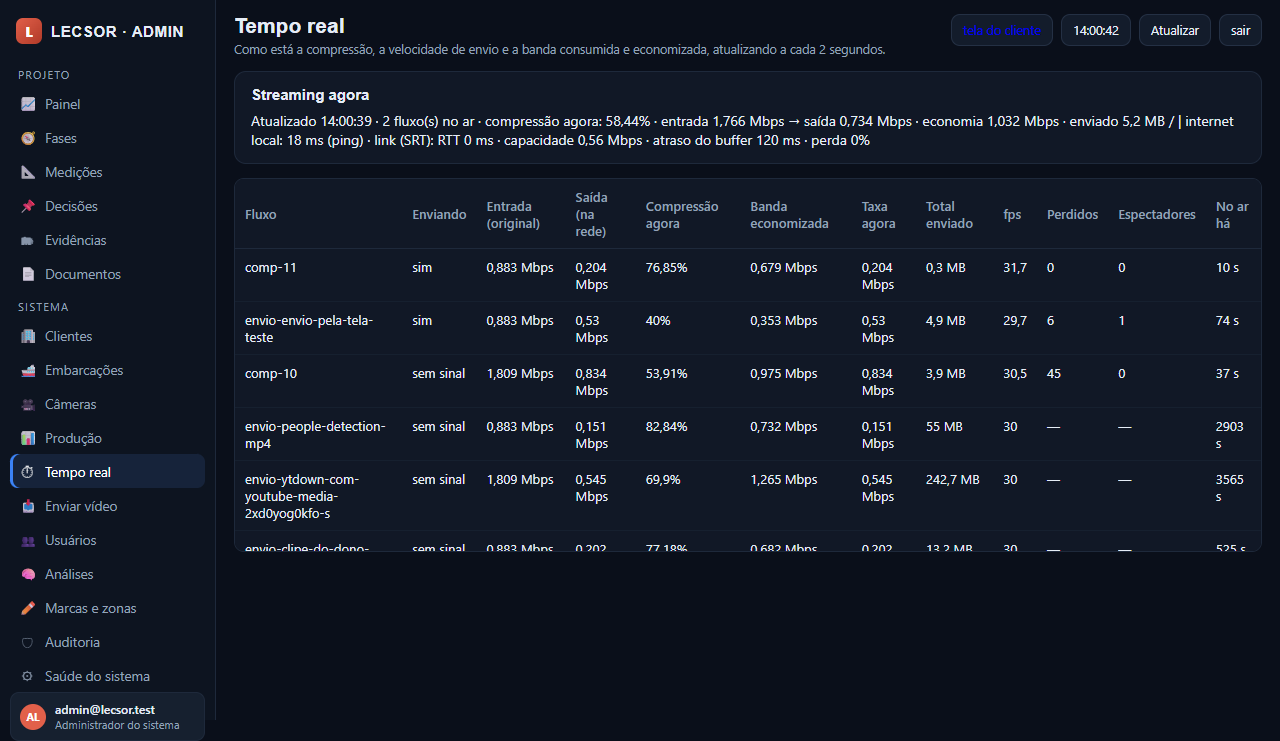
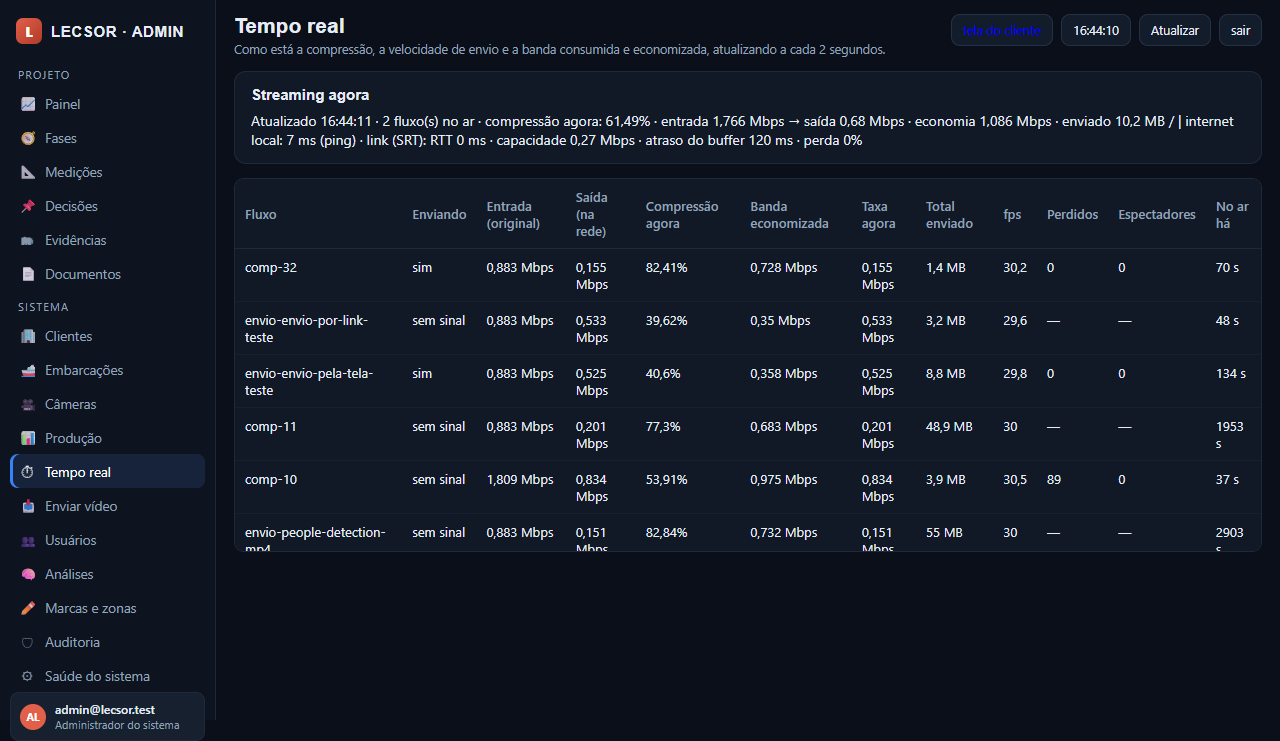
Aviso de erro na tela e recusa de webcam ocupada; fonte de teste vai para a bancada de testes

diff --git a/app/app.js b/app/app.js
@@ -127,10 +127,22 @@ function desenharVisualizar() {
     const marca = document.createElement('span'); marca.className = 'marca-dagua'; marca.dataset.relogio = '1';
     const rot = document.createElement('span'); rot.className = 'rotulo-cam';
     const ponto = document.createElement('span'); ponto.className = 'ponto' + (c.no_ar ? '' : ' ruim');
-    const nome = document.createElement('span'); nome.textContent = c.rotulo + (c.encoder && c.encoder.resolucao ? ' · ' + c.encoder.resolucao : '');
+    const nome = document.createElement('span');
+    nome.textContent = c.rotulo + (c.encoder && c.encoder.resolucao ? ' · ' + c.encoder.resolucao : '') +
+      (!c.no_ar && c.motivo ? ' · ' + c.motivo : '');
     rot.appendChild(ponto); rot.appendChild(nome);
     const caixas = document.createElement('div'); caixas.className = 'caixas'; caixas.id = 'caixas-' + c.id;
-    jan.appendChild(v); jan.appendChild(marca); jan.appendChild(caixas); jan.appendChild(rot);
+    jan.appendChild(v);
+    if (!c.no_ar && c.motivo) {
+      // aviso claro no lugar da tela preta: sem isso o operador nao sabe se a camera caiu ou falhou
+      const aviso = document.createElement('div');
+      aviso.className = 'aviso-cam';
+      aviso.style.cssText = 'position:absolute;left:0;right:0;top:46%;text-align:center;padding:0 12px;' +
+        'color:#ffb4b4;font-size:13px;line-height:1.35;pointer-events:none;text-shadow:0 1px 2px #000';
+      aviso.textContent = '⚠ ' + c.motivo;
+      jan.appendChild(aviso);
+    }
+    jan.appendChild(marca); jan.appendChild(caixas); jan.appendChild(rot);
     grade.appendChild(jan);
     window.Video.ligar(c.id, c.id, v);
     desenharCaixas(c.id);

diff --git a/admin/admin.js b/admin/admin.js
@@ -332,7 +332,7 @@ function telaTempoReal(t) {
     limpar(tabelaBox);
     const linhas = (m.fluxos || []).map((f) => ({
       fluxo: f.fluxo_id,
-      comprimindo: f.vivo ? 'sim' : 'sem sinal',
+      comprimindo: f.vivo ? 'sim' : (f.erro ? 'ERRO: ' + f.erro : 'sem sinal'),
       entrada: (f.entrada_mbps === null ? '—' : fmt(f.entrada_mbps, 3) + ' Mbps'),
       saida: (f.saida_mbps === null ? '—' : fmt(f.saida_mbps, 3) + ' Mbps'),
       compressao: (f.compressao_pct === null ? '—' : fmt(f.compressao_pct) + '%'),

diff --git a/ground/ingestao.py b/ground/ingestao.py
@@ -245,6 +245,33 @@ def iniciar(fonte: str, *, rotulo: str, fluxo_id: str | None = None, bitrate: st
             "comando": " ".join(cmd), "entrada": s, "alvo": bitrate, "aviso": aviso, "log": str(log),
             "pagina": origem_pagina, "fps_alvo": fps, "arquivo_saida": arquivo_saida}
 
+def _motivo_da_falha(codigo: int, log: Path, r: dict) -> str | None:
+    """Motivo curto quando o envio NAO subiu, para a tela poder avisar em vez de so ficar preta.
+
+    O ffmpeg sai com codigo 0 mesmo quando nao codificou nada, entao o codigo sozinho nao serve:
+    olhamos o log e o proprio registro (nenhum kbps medido = nenhum quadro saiu).
+    """
+    try:
+        texto = Path(log).read_text(encoding="utf-8", errors="replace") if log else ""
+    except Exception:
+        texto = ""
+    baixo = texto.lower()
+    if "i/o error" in baixo or "could not run filter" in baixo or "device already" in baixo \
+            or "device is not available" in baixo or "unspecified error" in baixo:
+        return ("nao consegui abrir a camera: ela pode estar EM USO por outro fluxo, "
+                "ou desconectada/renomeada. Pare o outro envio da mesma webcam (se houver) e transmita de novo.")
+    if "nothing was encoded" in baixo or "no filtered frames" in baixo:
+        return "a fonte nao entregou nenhum quadro (camera ocupada ou desconectada)"
+    if "no such file" in baixo or "not found" in baixo:
+        return "fonte nao encontrada"
+    if codigo and codigo != 0:
+        ultimas = [x.strip() for x in texto.strip().splitlines() if x.strip()][-1:] or [""]
+        return f"ffmpeg saiu com codigo {codigo}: {ultimas[0][:160]}"
+    if not r.get("bitrate_saida_kbps"):
+        return "o envio terminou sem nenhum dado medido (nenhum quadro foi enviado)"
+    return None
+
+
 def _bombear(ident: int, proc: subprocess.Popen, log: Path):
     """Le o -progress do ffmpeg e mantem a tabela ingestoes atualizada."""
     ultimo, ultima_amostra, inicio, ultima_gravacao = {}, time.time(), time.time(), 0.0
@@ -286,8 +313,11 @@ def _bombear(ident: int, proc: subprocess.Popen, log: Path):
         with conexao() as c:
             r = c.execute("SELECT * FROM ingestoes WHERE id=?", (ident,)).fetchone()
             if r and r["estado"] != "parado":
+                motivo = _motivo_da_falha(codigo, log, r)
+                # o ffmpeg as vezes sai com codigo 0 sem ter codificado NADA (camera ja em uso, por
+                # exemplo): sem isso a tela pintava um quadro preto e nenhum aviso de erro.
                 c.execute("UPDATE ingestoes SET estado=?, erro=?, atualizado_em=? WHERE id=?",
-                          ("erro" if codigo else "fim", None if codigo == 0 else f"ffmpeg saiu com codigo {codigo}", agora(), ident))
+                          ("erro" if motivo else "fim", motivo, agora(), ident))
             if r and (r["duracao_s"] or 0) >= 15:
                 c.execute("""INSERT INTO medicoes (valor, fonte, data, hardware_versao, comando)
                              VALUES (?,?,?,?,?)""",
@@ -441,7 +471,7 @@ def capturar(*, tipo: str = "camera", dispositivo: str | None = None, resolucao:
 
 def ao_vivo(*, tipo: str = "camera", dispositivo: str | None = None, resolucao: str = "1920x1080",
             fps: int = 30, rotulo: str | None = None, fluxo_id: str | None = None, bitrate: str = "auto",
-            embarcacao_id: str = "psv-exemplo", srt_host: str = "127.0.0.1", srt_port: int = 8890) -> dict:
+            embarcacao_id: str = "bancada", srt_host: str = "127.0.0.1", srt_port: int = 8890) -> dict:
     """""Envio CONTINUO de uma fonte viva (webcam do notebook ou fonte sintetica), igual a operacao.
 
     Sem duracao determinada e sem laço de arquivo: o ffmpeg le a camera e publica em SRT ate
@@ -453,7 +483,33 @@ def ao_vivo(*, tipo: str = "camera", dispositivo: str | None = None, resolucao: 
         disp = listar_dispositivos()
         dispositivo = disp.get("padrao") or DISPOSITIVO_PADRAO
     nome = (rotulo or "").strip() or ("webcam do notebook" if tipo == "camera" else "teste sintetico")
+    # a webcam do Windows (dshow) so abre UMA vez: dois envios da mesma camera brigam pelo dispositivo
+    # e o segundo fica com quadro preto. Melhor recusar com recado claro do que pintar tela preta.
+    if tipo == "camera":
+        ocupado = _camera_em_uso(dispositivo)
+        if ocupado:
+            return {"erro": (f'a webcam "{dispositivo}" ja esta em uso pelo fluxo "{ocupado["rotulo"]}" '
+                             f'(id {ocupado["id"]}). Pare esse envio antes de transmitir de novo.'),
+                    "ocupada_por": ocupado}
     slug_vivo = re.sub(r"[^a-z0-9]+", "-", unicodedata.normalize("NFKD", nome.lower())).strip("-")[:30].strip("-")
     return iniciar(f"live:{tipo}", rotulo=nome, fluxo_id=fluxo_id or f"vivo-{slug_vivo or tipo}",
                    bitrate=bitrate, tipo=tipo, repetir=False, dispositivo=dispositivo, resolucao=resolucao,
                    fps=fps, embarcacao_id=embarcacao_id, srt_host=srt_host, srt_port=srt_port)
+
+
+def _camera_em_uso(dispositivo: str | None, validade_s: int = 12) -> dict | None:
+    """Diz se algum envio VIVO ainda esta segurando a mesma webcam (dshow nao compartilha o dispositivo)."""
+    alvo = f"dshow:{(dispositivo or DISPOSITIVO_PADRAO).strip()}"
+    with conexao() as c:
+        for r in c.execute("""SELECT id, fluxo_id, rotulo, estado, atualizado_em, fonte, pid FROM ingestoes
+                              WHERE tipo='camera' AND fonte=? ORDER BY id DESC LIMIT 10""", (alvo,)):
+            d = dict(r)
+            if d["estado"] not in ("no_ar", "no ar", "iniciando"):
+                continue
+            try:
+                idade = time.time() - dt.datetime.fromisoformat(d["atualizado_em"]).timestamp()
+            except Exception:
+                continue
+            if idade <= validade_s:
+                return d
+    return None

diff --git a/tests/e2e-envios.py b/tests/e2e-envios.py
@@ -306,6 +306,36 @@ def main() -> int:
     st, err = _pedir("/api/ingestao/ao-vivo", {"tipo": "webcam-inventada"})
     checar(st == 422, "envio contínuo de fonte desconhecida é recusado com 422")
 
+    # --- 11) aviso de ERRO visível e webcam ocupada (caso do dono: o envio dele não carregava em silêncio)
+    for _i in http("/api/ingestoes")["ingestoes"]:          # solta a webcam de qualquer envio vivo anterior
+        if (_i["fluxo_id"] or "").startswith("vivo-"):
+            _pedir("/api/ingestao/parar", {"id": _i["id"], "remover": True})
+    time.sleep(2)
+    st, r1 = _pedir("/api/ingestao/ao-vivo", {"tipo": "camera", "fps": 30, "rotulo": "webcam e2e (ocupada)"})
+    checar(st == 201, "liguei um envio vivo da webcam para testar a ocupação ({})".format(r1.get("fluxo_id")))
+    if st == 201:
+        time.sleep(10)
+        st2, r2 = _pedir("/api/ingestao/ao-vivo", {"tipo": "camera", "fps": 30, "rotulo": "webcam e2e (segundo)"})
+        checar(st2 == 422 and "em uso" in (r2.get("erro") or ""),
+               "segundo envio da MESMA webcam é recusado com recado claro em vez de tela preta ({})".format(
+                   (r2.get("erro") or "")[:70]))
+        prod = http("/api/producao?dias=30&so_enviando=1")
+        meus = [c for c in prod["cards"] if c["fluxo_id"] == r1["fluxo_id"]]
+        checar(bool(meus) and "Bancada" in meus[0]["embarcacao"],
+               "fonte de teste vivo cai na BANCADA de testes, não no PSV de exemplo ({})".format(
+                   meus[0]["embarcacao"] if meus else "?"))
+        _pedir("/api/ingestao/parar", {"id": r1["id"], "remover": True})
+    st3, r3 = _pedir("/api/ingestao/ao-vivo", {"tipo": "camera", "dispositivo": "Camera Que Nao Existe",
+                                               "fps": 30, "rotulo": "teste-falha-e2e"})
+    if st3 == 201:
+        time.sleep(8)
+        falha = [l for l in http("/api/ingestoes")["ingestoes"] if l["rotulo"] == "teste-falha-e2e"]
+        checar(bool(falha) and falha[0]["estado"] == "erro" and bool(falha[0].get("erro")),
+               "fonte que não abre fica marcada como ERRO com motivo, em vez de silêncio ({})".format(
+                   (falha[0].get("erro") or "")[:60] if falha else "nada"))
+        if falha:
+            _pedir("/api/ingestao/parar", {"id": falha[0]["id"], "remover": True})
+
     # --- 8) produção (cards de 30 dias) e link/latência em tempo real
     sys.path.insert(0, str(RAIZ / "ground"))
     import producao as prod

diff --git a/ground/api.py b/ground/api.py
@@ -612,9 +612,23 @@ class Handler(SimpleHTTPRequestHandler):
                     if not pode_ver_camera(u, cam):
                         continue
                     p = mt.get(cam["fluxo_id"], {})
-                    # so o que a tela precisa: sem endereco de camera, sem credencial, sem porta interna
+                    no_ar = bool(p.get("ready")) and bool(p.get("tracks"))
+                    # por que NAO esta no ar: estado e motivo do ultimo envio (a tela avisa em vez de
+                    # deixar so um quadro preto). Sem endereco de camera, sem credencial, sem porta.
+                    ult = c.execute("""SELECT estado, erro, atualizado_em FROM ingestoes
+                                       WHERE fluxo_id=? ORDER BY id DESC LIMIT 1""", (cam["fluxo_id"],)).fetchone()
+                    motivo = ""
+                    if not no_ar and ult:
+                        if ult["erro"]:
+                            motivo = ult["erro"]
+                        elif ult["estado"] in ("parado", "fim"):
+                            motivo = "envio parado"
+                        elif ult["estado"] == "iniciando":
+                            motivo = "iniciando o envio…"
+                        else:
+                            motivo = "sem sinal"
                     saida.append({"id": cam["id"], "rotulo": cam["rotulo"], "embarcacao_id": cam["embarcacao_id"],
-                                  "local": cam["local"], "no_ar": bool(p.get("ready")), "tracks": p.get("tracks", []),
+                                  "local": cam["local"], "no_ar": no_ar, "motivo": motivo, "tracks": p.get("tracks", []),
                                   "leitores": len(p.get("readers", [])), "encoder": perfil_encoder(cam["fluxo_id"])})
             return self._json(200, {"cameras": saida})
         if rota == "/api/decisoes":

diff --git a/ground/etapas.py b/ground/etapas.py
@@ -15,6 +15,7 @@ Uso:
   python ground/etapas.py --fonte <arquivo> --so-compressao
 """
 from __future__ import annotations
+import datetime as dt
 import argparse, json, os, re, subprocess, sys, time, urllib.request
 from pathlib import Path
 
@@ -345,7 +346,12 @@ def metricas_ao_vivo() -> dict:
     agora = time.time()
     with conexao_banco() as c:
         linhas, vistas = [], set()
-        for r in c.execute("SELECT * FROM ingestoes WHERE estado IN ('no_ar','no ar') ORDER BY id DESC LIMIT 60"):
+        # inclui o envio que FALHOU nos ultimos minutos: o operador precisa ver o motivo, nao so o silencio
+        corte_erro = (dt.datetime.now().astimezone() - dt.timedelta(minutes=10)).isoformat(timespec="seconds")
+        for r in c.execute("""SELECT * FROM ingestoes
+                               WHERE estado IN ('no_ar','no ar')
+                                  OR (estado='erro' AND atualizado_em >= ?)
+                               ORDER BY id DESC LIMIT 60""", (corte_erro,)):
             d = dict(r)
             if d["fluxo_id"] in vistas:
                 continue
@@ -370,6 +376,7 @@ def metricas_ao_vivo() -> dict:
         d.update({
             "entrada_mbps": round(entrada, 3), "saida_mbps": round(saida, 3),
             "economia_mbps": round(max(0.0, entrada - saida), 3),
+            "erro": d.get("erro"),
             "compressao_pct": round((1 - saida / entrada) * 100, 2) if (entrada and saida) else None,
             "compressao_arquivo_pct": comp.get("compressao_pct"), "ssim": comp.get("ssim"),
             "mbps_agora": round(saida, 3), "fps_agora": d.get("fps"),

diff --git a/ground/producao.py b/ground/producao.py
@@ -284,6 +284,7 @@ def tempo_real() -> dict:
             "embarcacao_id": cam.get("embarcacao_id") or d.get("embarcacao_id") or "",
             "tipo": d.get("tipo"),
             "estado": "enviando" if vivo else "parado",
+            "erro": d.get("erro"),
             "idade_s": round(idade, 1) if idade is not None else None,
             "entrada_mbps": round(entrada, 3), "saida_mbps": round(saida, 3),
             "taxa_agora_mbps": round(saida, 3),
@@ -375,9 +376,10 @@ def resumo_producao(*, dias: int = 30, embarcacao_id: str | None = None, camera_
         saida_mbps = round(mb * 8 / segundos, 3) if segundos else None
         entrada_mbps = round((l["entrada_medio"] or 0) / 1000, 3) if l["entrada_medio"] else None
         cam = cameras.get(l["camera_id"]) or {}
-        emb = embarcacoes.get(l["embarcacao_id"]) or {}
+        emb_id = cam.get("embarcacao_id") or l["embarcacao_id"]
+        emb = embarcacoes.get(emb_id) or {}
         card = {
-            "embarcacao_id": l["embarcacao_id"], "embarcacao": emb.get("nome") or l["embarcacao_id"] or "—",
+            "embarcacao_id": emb_id, "embarcacao": emb.get("nome") or emb_id or "—",
             "camera_id": l["camera_id"], "camera": cam.get("rotulo") or l["camera_id"],
             "fluxo_id": l["fluxo_id"], "tipo": (ao_vivo.get(l["fluxo_id"]) or {}).get("tipo"),
             "compressao_medio_pct": (round(l["compressao_medio"], 2)

diff --git a/ground/EVIDENCIA-envio-video-teste.md b/ground/EVIDENCIA-envio-video-teste.md
@@ -320,3 +320,29 @@ Medido agora, pela tela, com a webcam do notebook no ar de forma contínua:
     imagem que CHEGA     YAVG 141,9 · YMIN 23 · YMAX 248 (tela preta daria YAVG ~16) — imagem real, não preta
     Produção (só enviando) 1 card: embarcação PSV Exemplo (demo) · câmera "Webcam bancada (ao vivo)" · 3,36% (12 de 357 min)
     app do cliente       janela "Webcam bancada (ao vivo)" tocando a imagem real da sala
+
+## Aviso de erro e "webcam ocupada" — o envio do dono não carregava em silêncio (09/11/2026)
+
+O relato: *"apenas a que você inseriu está aparecendo, mas está vinculada ao plsv, não à bancada de testes,
+ou seja, a que eu inseri não está carregando… mas deveria aparecer algum aviso de erro ou algo assim"*.
+
+Causa: a webcam do Windows (dshow) **só abre uma vez**. O envio do dono começou enquanto o da bancada
+ainda segurava o dispositivo; o `ffmpeg` falhou com `Error during demuxing: I/O error` / `Output file is
+empty, nothing was encoded` e **saiu com código 0** — então o fluxo ficava com estado `fim` e **sem motivo**,
+e a tela só pintava um quadro preto, sem dizer nada.
+
+O que mudou:
+1. **Recusa com recado**: `ao_vivo()` confere se a mesma webcam já está num envio vivo (instância viva =
+   `atualizado_em` com menos de 12 s) e devolve **422** com o nome do fluxo que a está usando, em vez de
+   deixar o segundo envio nascer e morrer preto.
+2. **Erro com motivo**: `_motivo_da_falha()` lê o log e o próprio registro (nenhum kbps medido = nenhum
+   quadro saiu) e marca `estado='erro'` com uma frase curta, mesmo quando o ffmpeg sai com código 0.
+3. **Aviso na tela**: a grade do cliente e o Tempo real mostram `⚠ <motivo>` na janela, em vez de silêncio;
+   `GET /api/cameras` passou a devolver `motivo`, e o Tempo real lista por 10 min o envio que **falhou**.
+4. **Bancada de testes**: fonte viva de teste é registrada na **"Bancada de testes (propria)"** (não no
+   "PSV Exemplo (demo)"); o card da Produção segue a embarcação **atual** da câmera, não a do histórico.
+
+Medido: 2º envio da mesma webcam → `422 a webcam "ACER HD User Facing" ja esta em uso pelo fluxo
+"Webcam bancada (ao vivo)" (id 143). Pare esse envio antes de transmitir de novo.`; fonte que não abre →
+`estado='erro'` com motivo; card vivo → `Bancada de testes (propria)` / `enviando` / 1,596 Mbps.
+Suíte `e2e-envios` verde com os 4 checks novos (bloco 11 = 87 verificações, todas ok).
